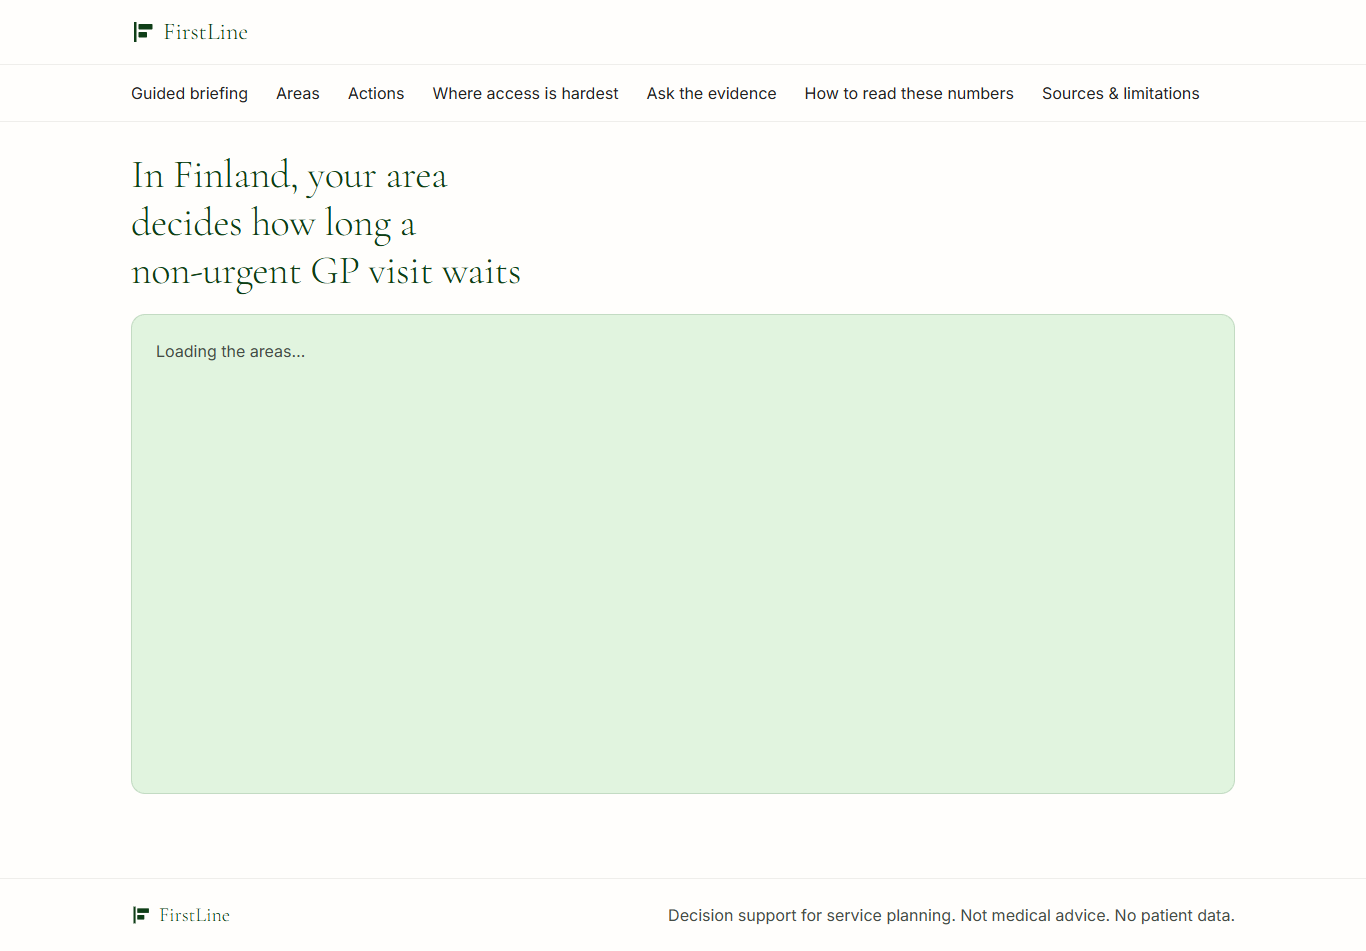
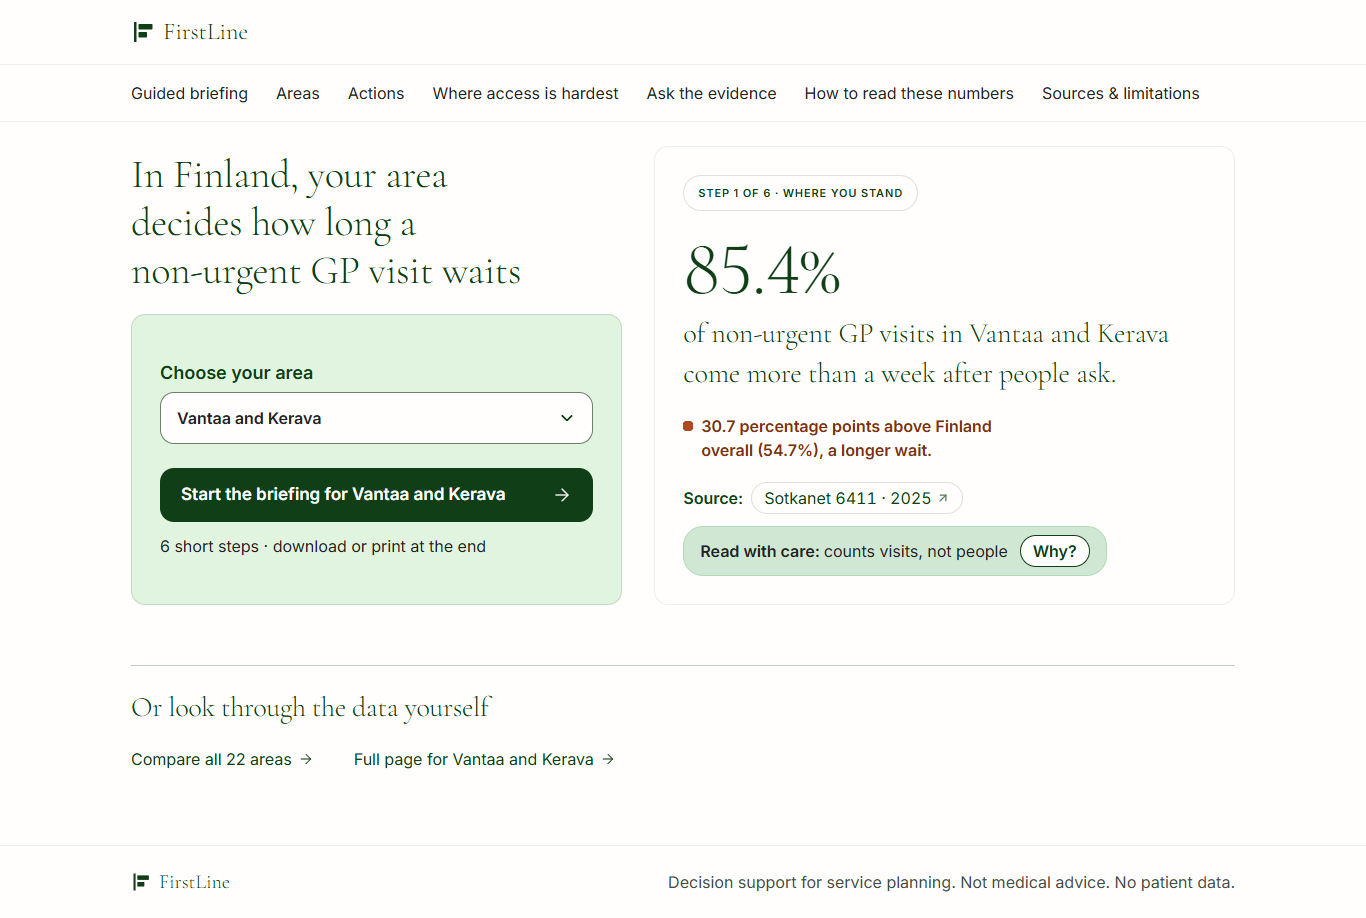
fix(home): complete page without JavaScript; notes corrected
The Suspense fallback is now the whole tool for the default area instead
of a "Loading the areas…" box, so the page is complete without JavaScript
and nothing jumps when the stream lands. Notes: no-JS checked on the
rendered page, arrow nudge measured, spinner marked unobserved, A4 print
shot, how to restore the three cut links.

diff --git a/app/page.tsx b/app/page.tsx
@@ -53,17 +53,10 @@ export default function HomePage({ searchParams }: PageProps<"/">) {
         waits
       </h1>
 
-      {/* The one request-time part: the server render of /?area=<id> already shows that area. */}
-      <Suspense
-        fallback={
-          <div
-            aria-busy
-            className="min-h-[30rem] rounded-panel border border-border bg-card p-6 text-base text-muted-foreground lg:col-span-2"
-          >
-            Loading the areas…
-          </div>
-        }
-      >
+      {/* The one request-time part: the server render of /?area=<id> already shows that area. Until
+          it lands (and for good without JavaScript) the static shell holds the whole tool for the
+          default area, so the page is complete and the layout doesn't jump. */}
+      <Suspense fallback={<HomeTool rows={rows} unranked={unranked} />}>
         <Tool searchParams={searchParams} rows={rows} unranked={unranked} />
       </Suspense>
     </main>

diff --git a/docs/audit/home/notes.md b/docs/audit/home/notes.md
@@ -13,6 +13,7 @@ Goal: raise the judges' home score from 8.5. Round 4: clarity 8.5, ease 9.0, hie
 | 1366: the status line | "… a longer / wait." left one word alone on the last line. |
 | 1366 and 390: the link list | Five 1100px-wide rows for 200px labels. Three of the five (Where access is hardest, How to read these numbers, Sources & limitations) repeat the nav. |
 | Motion | The links section faded in on scroll, the one scroll-driven reveal on a page that is meant to have none. Choosing another area swapped the card with no feedback. Start had no hover or pending state. |
+| No JavaScript (and the frame before the stream lands) | The static shell held only the headline and a large "Loading the areas…" box. Without JavaScript that was the whole page (`before-nojs-1366-full.png`). |
 
 ### What changed
 
@@ -25,17 +26,22 @@ Goal: raise the judges' home score from 8.5. Round 4: clarity 8.5, ease 9.0, hie
 - **Start button:** the label is left-aligned with the arrow at the right edge, so a two-line label on a phone reads as a sentence rather than a centred block. The label and the line under it use `text-balance`.
 - **Status line** in step 1: `text-balance`, so it breaks into two even lines with no lone word.
 - **Links: five to two.** "Compare all 22 areas" and "Full page for <area>" are the two places the nav doesn't name. The nav's "Areas" goes to `/`, and the other three are nav items one line above the headline. On a laptop the two sit on one line; on a phone they stack, each 44px tall.
+  - The earlier pass kept all five because the lead named them. To restore them, add the three `{ href, label }` rows (`/insights` "Where access is hardest", `/how-to-read` "How to read these numbers", `/sources` "Sources & limitations") back to `links` in `area-picker.tsx`.
+- **No JavaScript.** The Suspense fallback is now the whole tool for the default area (`<HomeTool rows unranked />`), not a loading box.
+  - Without JavaScript the page is complete: headline, list, a working Start link, step 1 and links.
+  - With JavaScript nothing jumps when the stream lands.
+  - Trade-off: without JavaScript, `/?area=<id>` shows the default area (Vantaa and Kerava), not `<id>`. With JavaScript the list reads `?area=` at once.
 - **Motion and interaction:**
   - The links section is a plain section, with no scroll reveal.
   - Choosing an area plays a quiet `animate-fade-up` (320ms) on the new step-1 card. It plays only on a change, never on load. The `aria-live` wrapper stays mounted, so the change is still announced.
-  - Start's arrow nudges 4px forward on hover and keyboard focus.
-  - While the briefing loads, the arrow becomes a spinner (`useLinkStatus`). The spinner only turns when motion is allowed.
+  - Start's arrow nudges 4px forward on hover and keyboard focus. Measured on hover: `translate` goes from none to 4px.
+  - While the briefing loads, the arrow becomes a spinner (`useLinkStatus`). The spinner only turns when motion is allowed. This shows only when the route isn't prefetched yet, so it was **not observed**.
   - Reduced motion: every animation is off (checked with `document.getAnimations().length === 0` right after load and right after an area change).
 - **Files:** `app/page.tsx`, `components/home/area-picker.tsx`, `components/home/briefing-preview.tsx`. No new numbers and no new wording about Finland overall.
 
 ### Checked (`next build` + `next start -p 3113`, playwright-core with Chromium 1255)
 
-106 checks passed, 0 failed, before and after the change. The script is in the session scratchpad; it is not committed.
+The final run passed 108 checks with 0 failures. The before run used an earlier, smaller version of the script: 58 checks, all passing. That version could not catch the no-JS gap, because it only grepped the HTML. The script is in the session scratchpad; it is not committed.
 
 - **Views:** 1366×768 and 390×844, each with and without reduced motion.
 - **First screen:** Start is fully on the first screen (bottom edge at 522px of 768 at 1366, and 495–521px of 844 at 390) for **all 22 areas**. Every area has a step-1 card. No sideways scroll for any area at either width.
@@ -46,8 +52,8 @@ Goal: raise the judges' home score from 8.5. Round 4: clarity 8.5, ease 9.0, hie
   - Tab from the list lands on Start with the focus ring showing (`after-1366-focus-start.png`).
   - Enter opens `/briefing/kainuu`, whose title is "Step 1 of …". Browser Back returns to `/?area=kainuu` with Kainuu selected.
   - No page errors.
-- **No JavaScript:** `/?area=helsinki` server HTML holds `href="/briefing/helsinki"`, "Step 1 of" and the links.
-- **Print:** A4 PDF is 1 page with the figure and source.
+- **No JavaScript:** these are checked on the rendered page, not the HTML string. A visible Start link to `/briefing/…`, a visible step 1, visible links, and no loading box.
+- **Print:** the A4 PDF is 1 page with the figure and source. `after-print-media-a4.png` shows print media at A4 width (794px): one column, with the headline over step 1.
 - **Verify command:** `npm test` (517/517), `brief:check`, `typecheck`, `lint`, `build`, `check-insights` and `check-hardcoded` all pass.
 
 ### Screenshots (`screenshots/round5/`)
@@ -61,7 +67,8 @@ Goal: raise the judges' home score from 8.5. Round 4: clarity 8.5, ease 9.0, hie
   - `-1366-kainuu.png` and `-390-kainuu.png`: an area below Finland overall, drawn in slate.
   - `-1366-focus-start.png`: keyboard focus on Start.
   - `-nojs-1366-full.png`: the page without JavaScript.
-  - `-print-media.png`: print media.
+  - `before-print-media.png`: print media at 1366px wide.
+  - `after-print-media-a4.png`: print media at A4 width.
 
 ### Self-score against the rubric (honest, not a judge)
 
@@ -72,8 +79,10 @@ Goal: raise the judges' home score from 8.5. Round 4: clarity 8.5, ease 9.0, hie
 - **Clarity +0.5:** two links instead of five, and one composition with no empty block.
 - **Hierarchy +0.5:** the headline now introduces the action it sits over, and the eye runs headline → list → Start, with the evidence beside them.
 - **Type and spacing +1.0:** no dead green, no hyphen break, no lone word, and a shorter page.
-- **Motion +0.5:** feedback on area change, on hover and focus, and while loading, with no scroll reveal.
+- **Motion +0.5:** feedback on area change and on hover and focus, with no scroll reveal. The loading spinner isn't counted, since it wasn't observed.
 - **Ease** stays at 9.0, since the flow is unchanged.
+- **Accessibility** stays at 9.0, but the page is now complete without JavaScript.
+- **Overall:** 8.95 is just under the 9.0 goal.
 - It is a judgement call whether a judge lifts motion to 9; the count-up was removed site-wide, so the page's motion is now only feedback.
 
 ### Not changed, and needed from others
